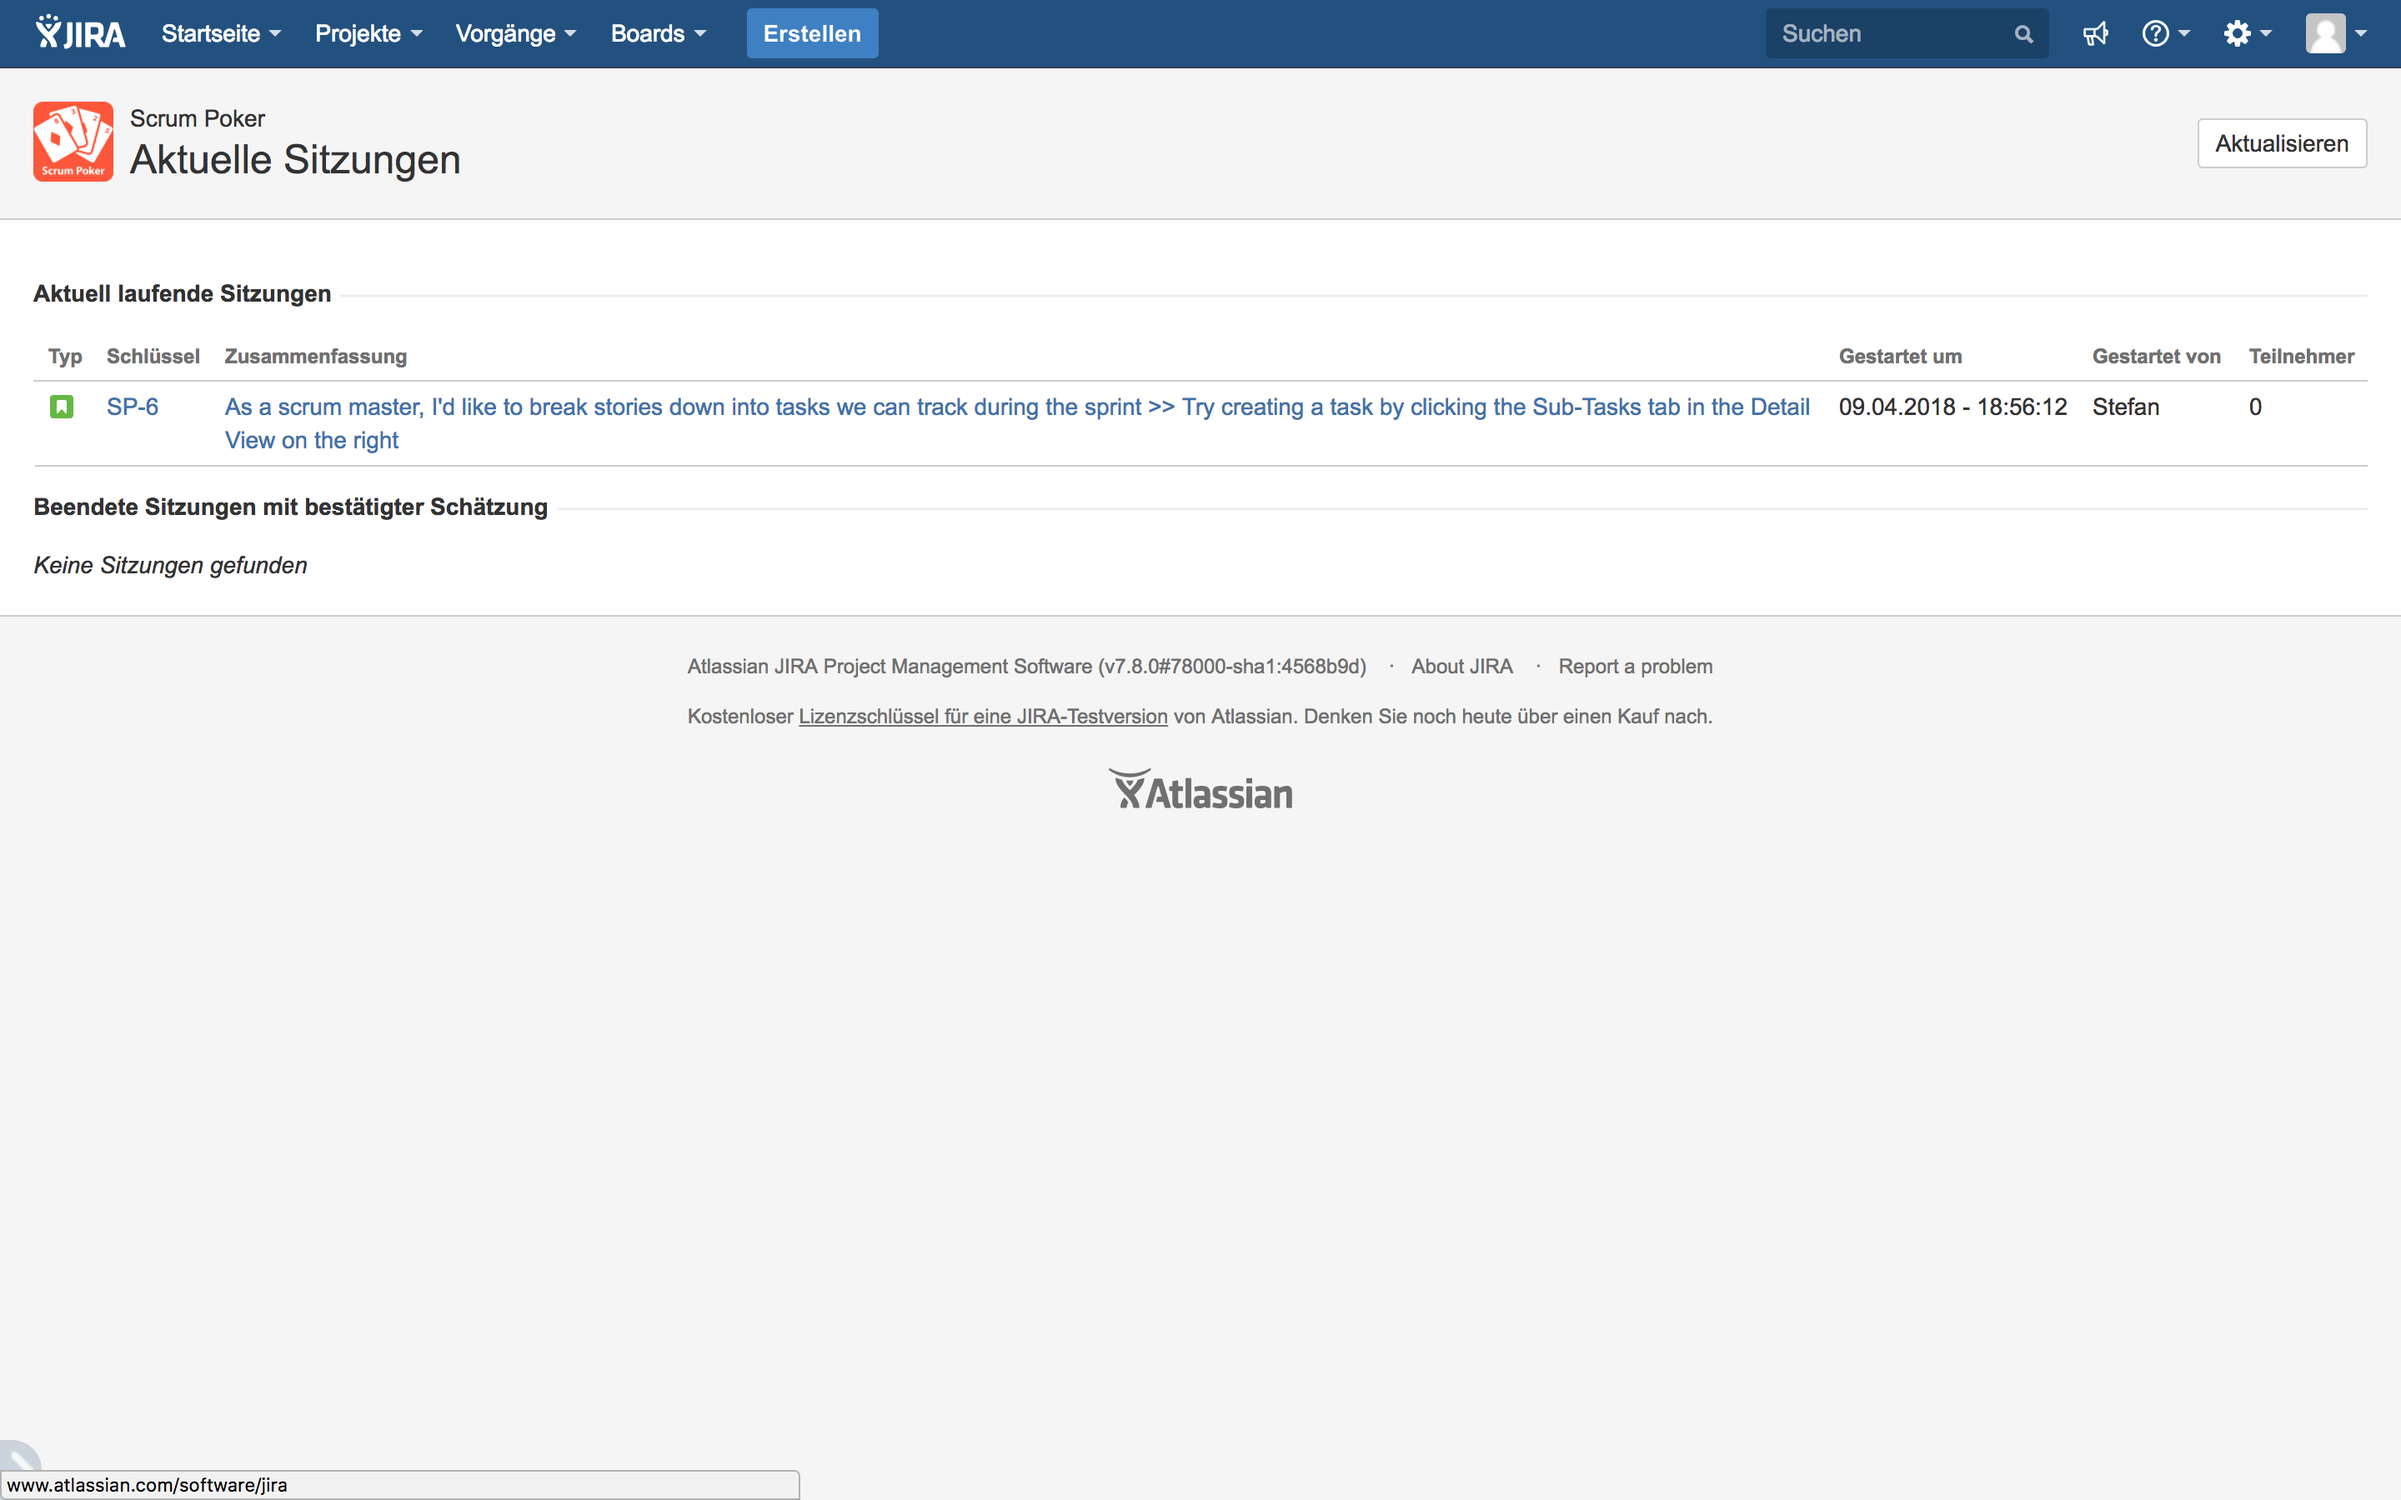
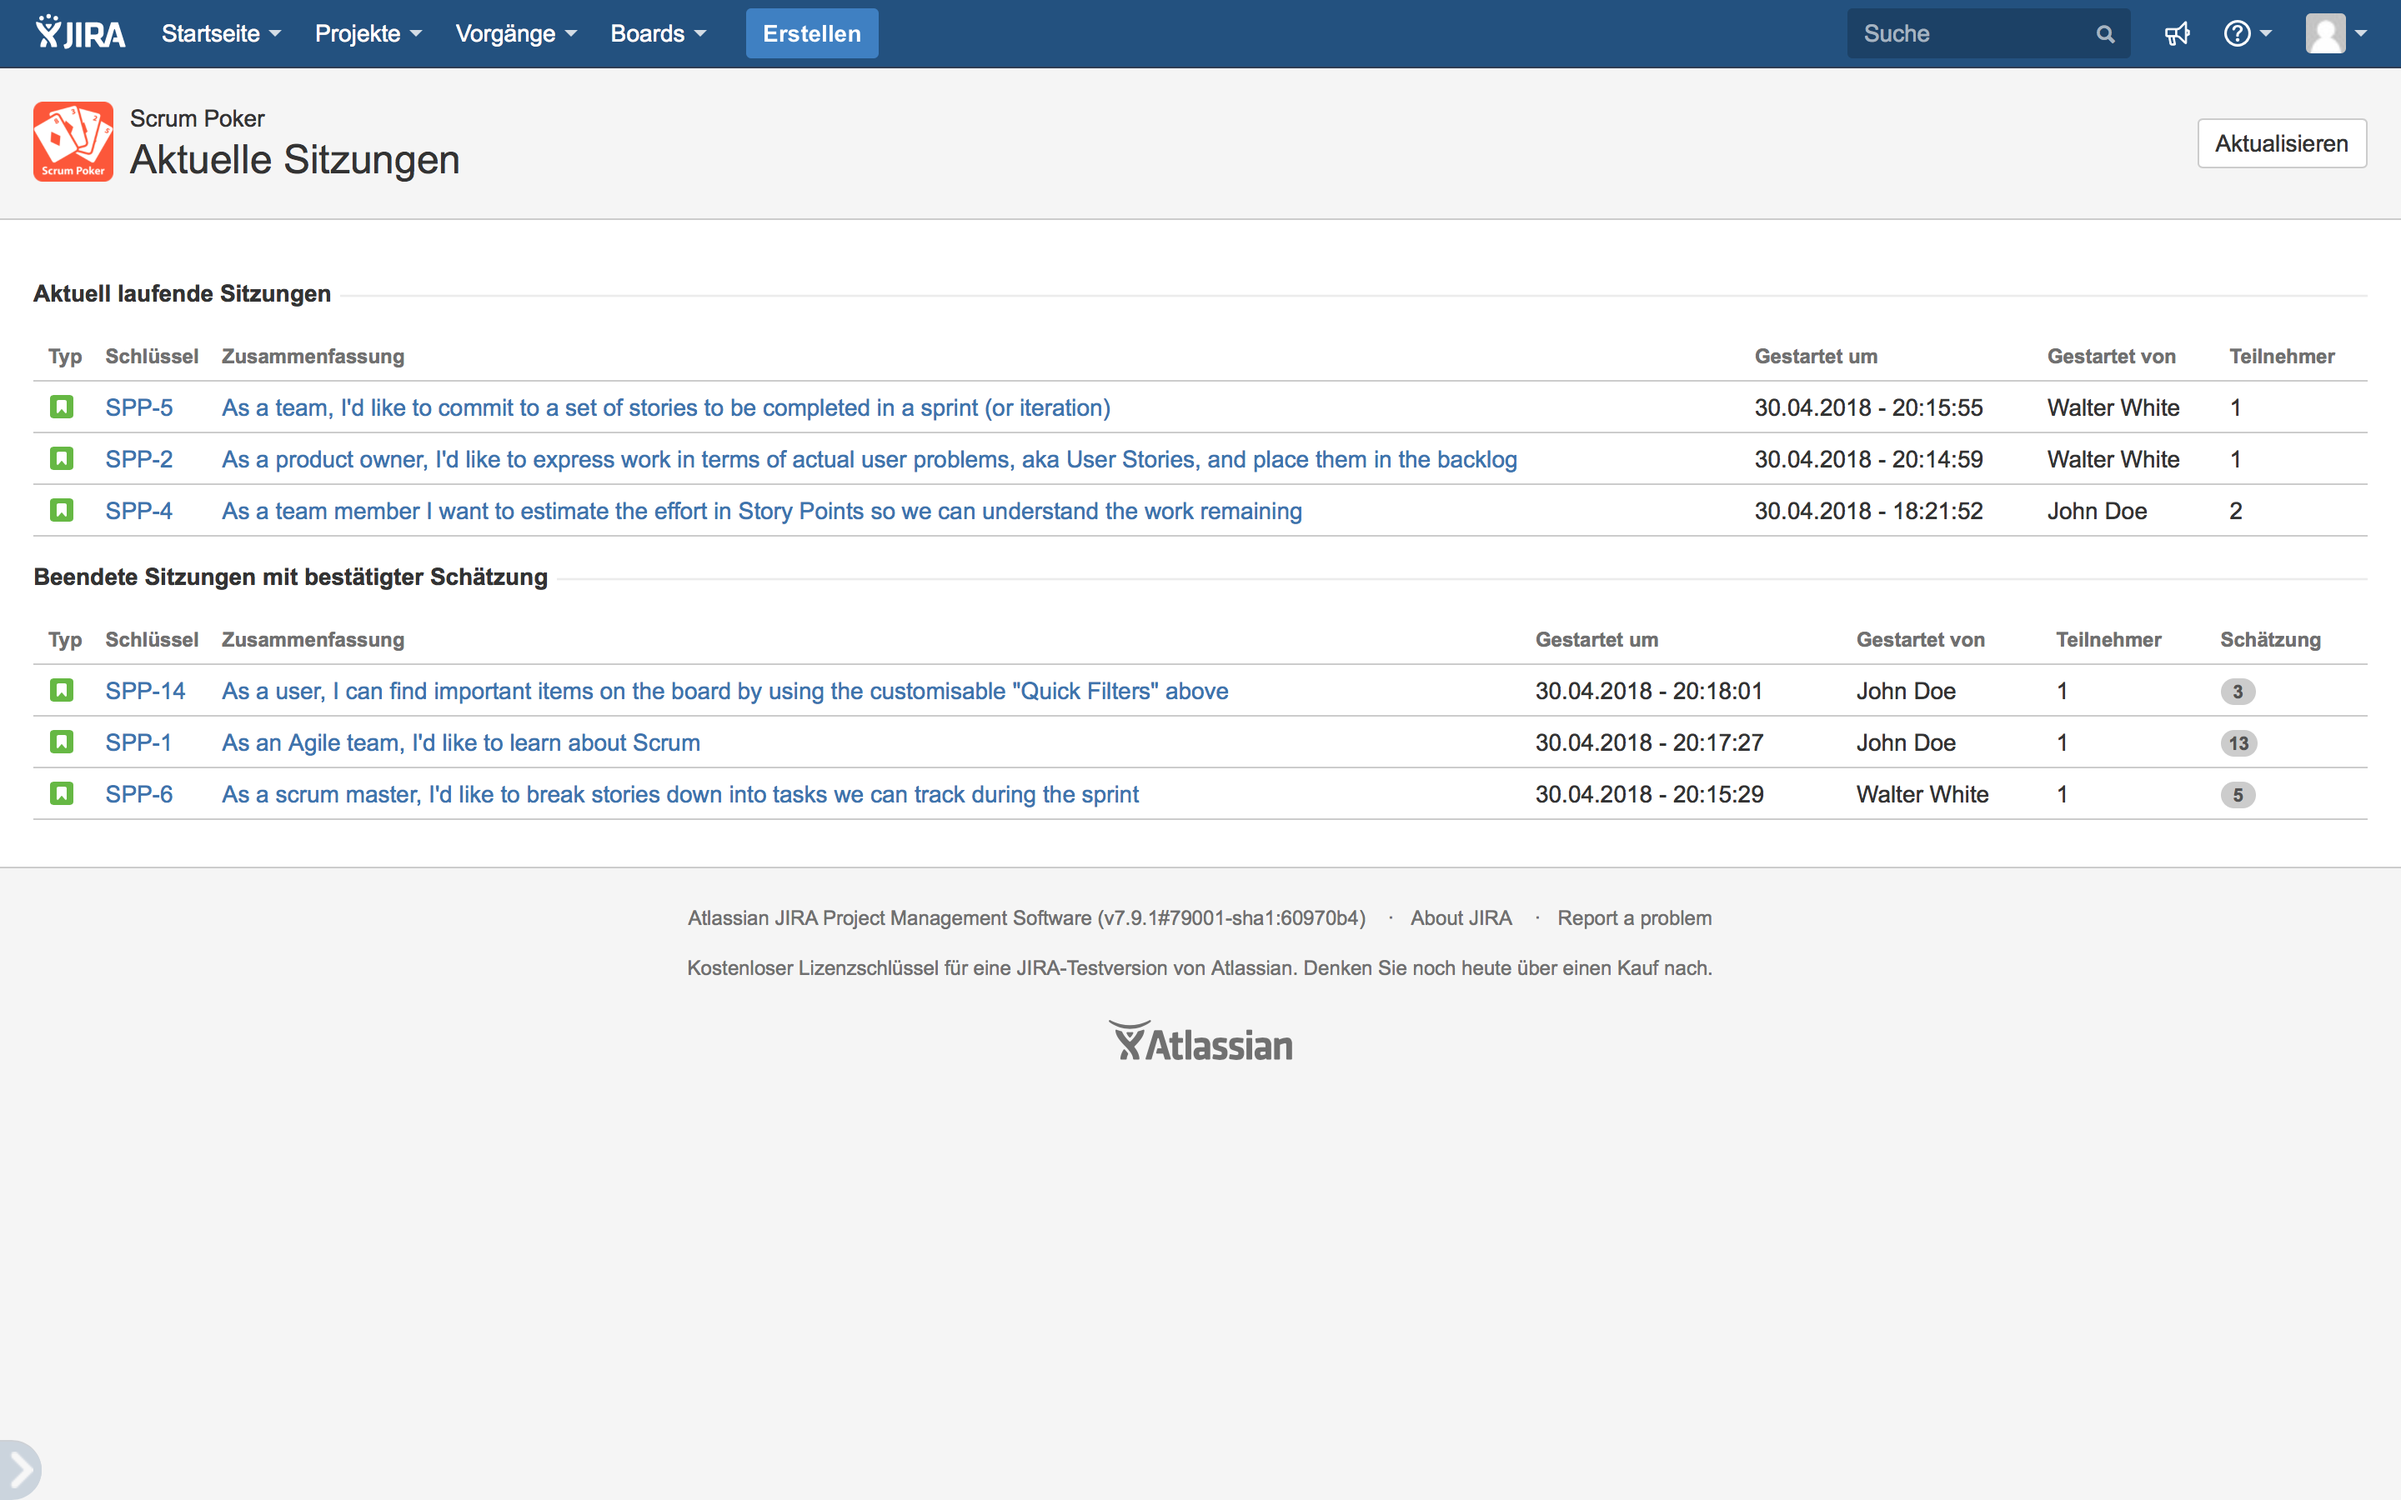
docs: provide better screenshots and show more situations
Closes #11

diff --git a/readme.md b/readme.md
@@ -35,7 +35,11 @@ New Scrum Poker sessions can be started from the context menu or from the issue 
 
 The Scrum Poker session page is separated into issue details like summary, description and sub tasks and the Scrum Poker session details like cards, selected estimations and participating users.   
 
-![Running Scrum Poker session](/etc/screenshots/scrum-poker-session.png)
+![Providing estimates by all participants](/etc/screenshots/scrum-poker-session-hidden.png)
+
+When the Scrum Poker session is revealed all estimations will be shown and to help the team finding a common estimation participants with estimations on the boundaries are advised to talk to each other.
+
+![Discussion about the bandwidth of estimates](/etc/screenshots/scrum-poker-session-revealed.png)
 
 The overview page helps users to find their Scrum Poker session within all currently active and recently closed sessions.
 

diff --git a/changelog.md b/changelog.md
@@ -10,6 +10,7 @@ This changelog helps developers and users to keep track of new features, fixes a
 * docs: add Code of Conduct file
 * docs: add Releases section in Contributing documentation
 * feat: less text same meaning for session list headings
+* docs: provide better screenshots and show more situations
 
 ## [2.5.0] - 2018-04-29
 
